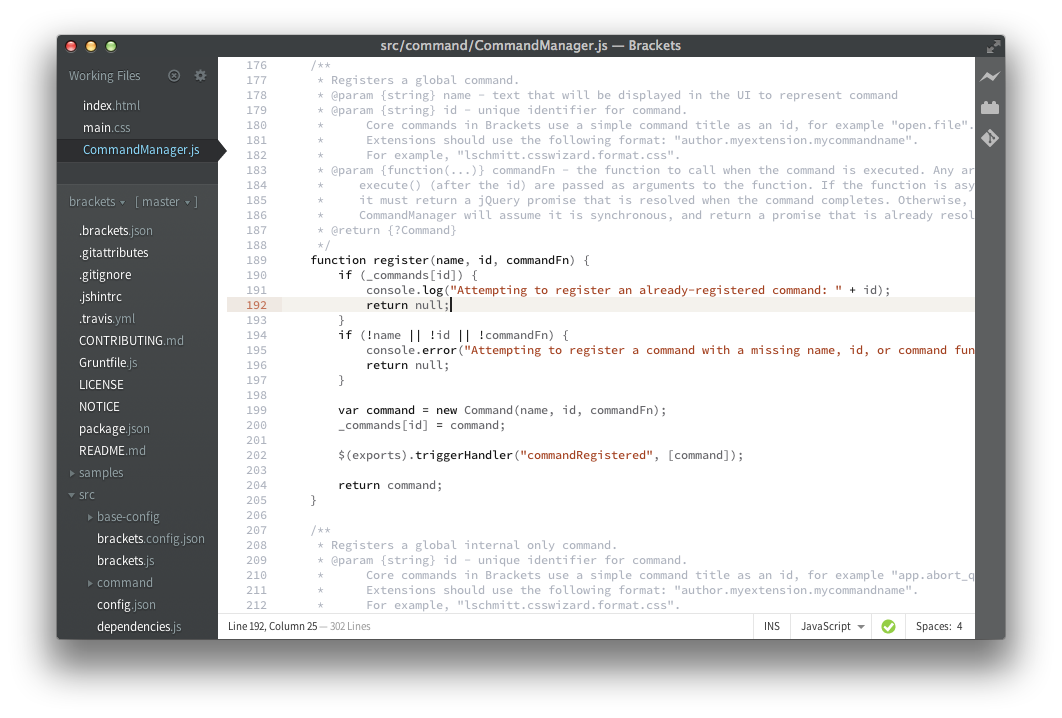
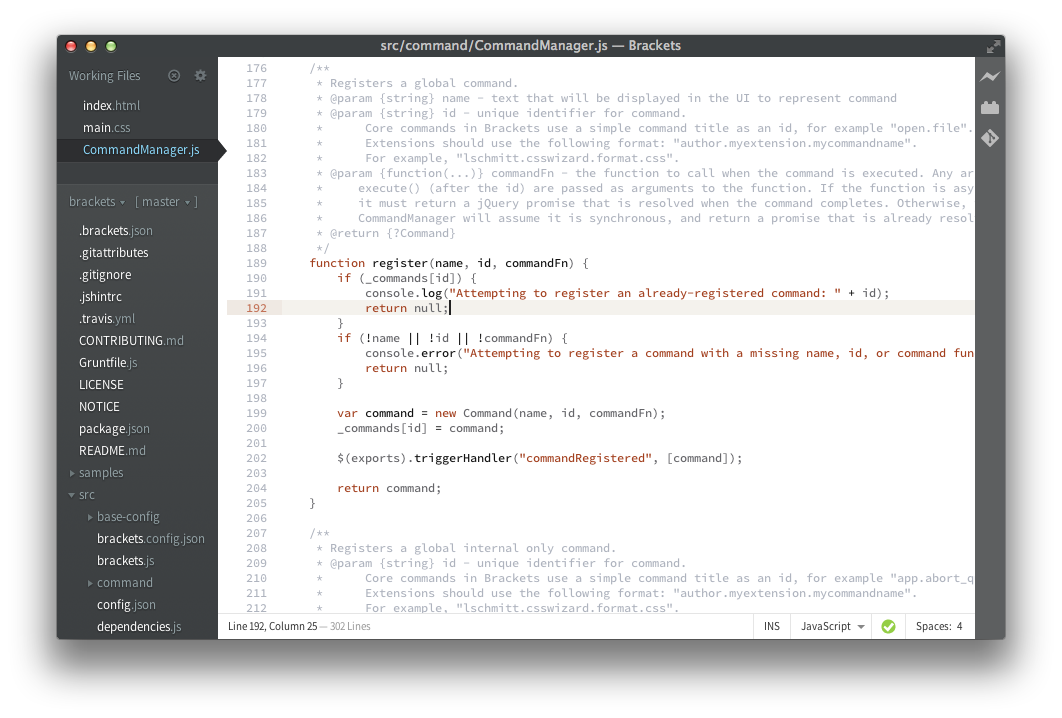
Tweaks.

diff --git a/dieterbamz.css b/dieterbamz.css
@@ -1,6 +1,7 @@
 /* SWATCHES ---------------------------------------------------------------------- */
 
 span.cm-builtin     { color: #a3401f; }
+span.cm-keyword		{ color: #a3401f; }
 span.cm-link		{ color: #a3401f; }
 span.cm-qualifier	{ color: #a3401f; }
 span.cm-string		{ color: #a3401f; }
@@ -9,7 +10,6 @@ span.cm-string-2    { color: #a3401f; }
 span.cm-attribute	{ color: #111111; }
 span.cm-def			{ color: #111111; }
 span.cm-header      { color: #111111; }
-span.cm-keyword		{ color: #111111; }
 span.cm-operator	{ color: #111111; }
 span.cm-property	{ color: #111111; }
 
